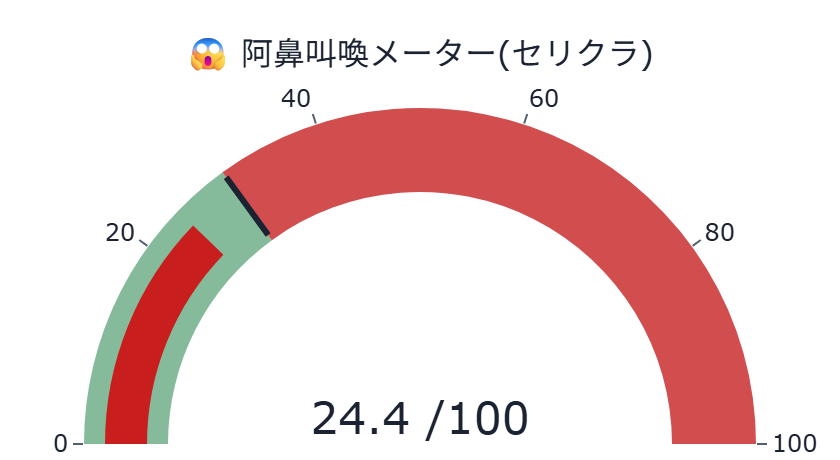
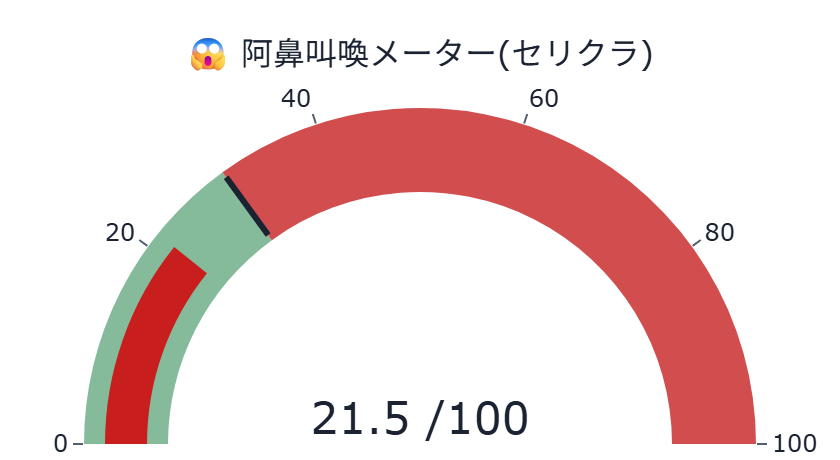
auto: refresh static dashboard (2026-08-25 01:40:27 JST)

Changed region(s): [[0.4024, 0.8522, 0.4952, 0.9435], [0.1857, 0.487, 0.2786, 0.6087]]

diff --git a/docs/index.html b/docs/index.html
@@ -86,7 +86,7 @@
         <span class="price">50,930円</span>
         <span class="chg" style="color:#8B94A3">—</span>
       </div>
-      <p class="caption">更新時刻: 2026-08-25T01:29:36（データは1分間隔で自動生成され、このページも
+      <p class="caption">更新時刻: 2026-08-25T01:39:35（データは1分間隔で自動生成され、このページも
       60秒毎に自動再読み込みされます）</p>
       
       <p id='visit-count-badge' class='caption' style='display:none'></p>
@@ -115,13 +115,13 @@
       <div class='info-box'>📌 前回の取引日(2026-08-24)からの状態変化: 「そう思う大量票」警戒→OK、「ネームド集中」OK→発火、「他銘柄混入率」警戒→発火、「暴落煽り語彙」警戒→OK、「話題枯れ」OK→発火</div>
       <div class="panel"><div class='signal-row'><div class='signal-name'>灼熱メーター(過熱)<div class='signal-desc'>掲示板全体の強気/弱気の偏りと投稿の勢いから算出した「過熱度」の合成指標。</div></div><div class='signal-note'>過熱スコア6.1 (閾値36)</div><div><span style='display:inline-block;border-radius:999px;padding:2px 10px;font-size:.82em;font-weight:600;color:#fff;background:#15803D;white-space:nowrap'>OK (現在値6.10 / 閾値&gt;36)</span></div></div>
 <div class='signal-row'><div class='signal-name'>そう思う大量票<div class='signal-desc'>Yahoo!掲示板の「そう思う」共感ボタンが1投稿に集中して大量に押されているか。</div></div><div class='signal-note'>そう思う最大23票 (95超=過熱)</div><div><span style='display:inline-block;border-radius:999px;padding:2px 10px;font-size:.82em;font-weight:600;color:#fff;background:#15803D;white-space:nowrap'>OK (現在値23 / 閾値&gt;=95)</span></div></div>
-<div class='signal-row'><div class='signal-name'>イナゴ語彙(euphoria)<div class='signal-desc'>「爆上げ」「握力」等、熱狂・便乗を示す語彙が投稿にどれだけ含まれるか。</div></div><div class='signal-note'>euphoria指数1.6/100投稿</div><div><span style='display:inline-block;border-radius:999px;padding:2px 10px;font-size:.82em;font-weight:600;color:#fff;background:#15803D;white-space:nowrap'>OK (現在値1.60 / 閾値&gt;=5.5/100投稿)</span></div></div>
-<div class='signal-row'><div class='signal-name'>ネームド集中<div class='signal-desc'>特定の常連投稿者(ハッシュ化ID)に投稿が偏っていないか(少数の声が目立ちすぎていないか)。</div></div><div class='signal-note'>上位5人シェア14%</div><div><span style='display:inline-block;border-radius:999px;padding:2px 10px;font-size:.82em;font-weight:600;color:#fff;background:#C81E1E;white-space:nowrap'>発火 (現在値0.14 / 閾値&gt;=0.1)</span></div></div>
+<div class='signal-row'><div class='signal-name'>イナゴ語彙(euphoria)<div class='signal-desc'>「爆上げ」「握力」等、熱狂・便乗を示す語彙が投稿にどれだけ含まれるか。</div></div><div class='signal-note'>euphoria指数1.9/100投稿</div><div><span style='display:inline-block;border-radius:999px;padding:2px 10px;font-size:.82em;font-weight:600;color:#fff;background:#15803D;white-space:nowrap'>OK (現在値1.90 / 閾値&gt;=5.5/100投稿)</span></div></div>
+<div class='signal-row'><div class='signal-name'>ネームド集中<div class='signal-desc'>特定の常連投稿者(ハッシュ化ID)に投稿が偏っていないか(少数の声が目立ちすぎていないか)。</div></div><div class='signal-note'>上位5人シェア13%</div><div><span style='display:inline-block;border-radius:999px;padding:2px 10px;font-size:.82em;font-weight:600;color:#fff;background:#C81E1E;white-space:nowrap'>発火 (現在値0.13 / 閾値&gt;=0.1)</span></div></div>
 <div class='signal-row'><div class='signal-name'>他銘柄混入率<div class='signal-desc'>本銘柄の掲示板で他の銘柄コードへの言及がどれだけ多いか(関心が他へ移りつつあるサイン)。</div></div><div class='signal-note'>他銘柄言及16% (関心離散のサイン)</div><div><span style='display:inline-block;border-radius:999px;padding:2px 10px;font-size:.82em;font-weight:600;color:#fff;background:#C81E1E;white-space:nowrap'>発火 (現在値0.16 / 閾値&gt;=0.11)</span></div></div>
-<div class='signal-row'><div class='signal-name'>暴落煽り語彙<div class='signal-desc'>「暴落」「終わった」等、悲観・煽りを示す語彙が投稿にどれだけ含まれるか。</div></div><div class='signal-note'>煽り指数2.6/100投稿</div><div><span style='display:inline-block;border-radius:999px;padding:2px 10px;font-size:.82em;font-weight:600;color:#fff;background:#15803D;white-space:nowrap'>OK (現在値2.60 / 閾値&gt;=5.0/100投稿)</span></div></div>
-<div class='signal-row'><div class='signal-name'>阿鼻叫喚(セリクラ)<div class='signal-desc'>株価が安値圏にある中で悲観語彙が急増しているか(セリングクライマックスの兆候)。</div></div><div class='signal-note'>阿鼻叫喚スコア24.4 安値圏外</div><div><span style='display:inline-block;border-radius:999px;padding:2px 10px;font-size:.82em;font-weight:600;color:#fff;background:#C2570B;white-space:nowrap'>警戒 (現在値24.40 / 閾値&gt;30)</span></div></div>
-<div class='signal-row'><div class='signal-name'>話題枯れ<div class='signal-desc'>過去の平均と比べて本日の投稿数が著しく少ないか(閑散・関心低下のサイン)。</div></div><div class='signal-note'>投稿数z=-1.32 (負=閑散)</div><div><span style='display:inline-block;border-radius:999px;padding:2px 10px;font-size:.82em;font-weight:600;color:#fff;background:#C81E1E;white-space:nowrap'>発火 (現在値-1.32 / 閾値z&lt;-1)</span></div></div>
-<div class='signal-row'><div class='signal-name'>投稿サージ<div class='signal-desc'>過去の平均と比べて本日の投稿数が著しく多いか(急な注目集中のサイン)。</div></div><div class='signal-note'>投稿数z=-1.32 (量→ボラ予測が文献の主結果)</div><div><span style='display:inline-block;border-radius:999px;padding:2px 10px;font-size:.82em;font-weight:600;color:#fff;background:#15803D;white-space:nowrap'>OK (現在値-1.32 / 閾値z&gt;2)</span></div></div></div>
+<div class='signal-row'><div class='signal-name'>暴落煽り語彙<div class='signal-desc'>「暴落」「終わった」等、悲観・煽りを示す語彙が投稿にどれだけ含まれるか。</div></div><div class='signal-note'>煽り指数2.5/100投稿</div><div><span style='display:inline-block;border-radius:999px;padding:2px 10px;font-size:.82em;font-weight:600;color:#fff;background:#15803D;white-space:nowrap'>OK (現在値2.50 / 閾値&gt;=5.0/100投稿)</span></div></div>
+<div class='signal-row'><div class='signal-name'>阿鼻叫喚(セリクラ)<div class='signal-desc'>株価が安値圏にある中で悲観語彙が急増しているか(セリングクライマックスの兆候)。</div></div><div class='signal-note'>阿鼻叫喚スコア21.5 安値圏外</div><div><span style='display:inline-block;border-radius:999px;padding:2px 10px;font-size:.82em;font-weight:600;color:#fff;background:#C2570B;white-space:nowrap'>警戒 (現在値21.50 / 閾値&gt;30)</span></div></div>
+<div class='signal-row'><div class='signal-name'>話題枯れ<div class='signal-desc'>過去の平均と比べて本日の投稿数が著しく少ないか(閑散・関心低下のサイン)。</div></div><div class='signal-note'>投稿数z=-1.31 (負=閑散)</div><div><span style='display:inline-block;border-radius:999px;padding:2px 10px;font-size:.82em;font-weight:600;color:#fff;background:#C81E1E;white-space:nowrap'>発火 (現在値-1.31 / 閾値z&lt;-1)</span></div></div>
+<div class='signal-row'><div class='signal-name'>投稿サージ<div class='signal-desc'>過去の平均と比べて本日の投稿数が著しく多いか(急な注目集中のサイン)。</div></div><div class='signal-note'>投稿数z=-1.31 (量→ボラ予測が文献の主結果)</div><div><span style='display:inline-block;border-radius:999px;padding:2px 10px;font-size:.82em;font-weight:600;color:#fff;background:#15803D;white-space:nowrap'>OK (現在値-1.31 / 閾値z&gt;2)</span></div></div></div>
       <p class="caption">※研究・エンタメ用途・未検証。売買シグナルではありません。
       掲示板は方向よりボラを予測する傾向が文献で報告されています(Antweiler &amp; Frank, 2004)。</p>
 
@@ -150,24 +150,24 @@
       
 
       <h2>🤖 AI考察</h2>
-      <div class='metric-row'><div class='metric-card'><div class='metric-label'>株価</div><div class='metric-value'>50,930円</div><div class='metric-delta'>+0円</div></div><div class='metric-card'><div class='metric-label'>強気比率</div><div class='metric-value'>34.1%</div><div class='metric-delta'>+2.5pt</div></div><div class='metric-card'><div class='metric-label'>弱気比率</div><div class='metric-value'>55.9%</div><div class='metric-delta'>-2.2pt</div></div></div><p class='caption'>前回集計(2026-08-25T01:18:24)との比較</p>
-      <div class='ai-box'>本レポートは、掲示板の集計センチメントデータに基づく分析であり、投資助言ではありません。<br>
+      <div class='metric-row'><div class='metric-card'><div class='metric-label'>株価</div><div class='metric-value'>50,930円</div><div class='metric-delta'>+0円</div></div><div class='metric-card'><div class='metric-label'>強気比率</div><div class='metric-value'>35.1%</div><div class='metric-delta'>+1.0pt</div></div><div class='metric-card'><div class='metric-label'>弱気比率</div><div class='metric-value'>55.3%</div><div class='metric-delta'>-0.6pt</div></div></div><p class='caption'>前回集計(2026-08-25T01:29:36)との比較</p>
+      <div class='ai-box'>本件は掲示板の集計センチメントデータに基づく分析であり、投資助言ではありません。<br>
 <br>
 キオクシアホールディングス（285A）について、前営業日の終値を基準とした現在の状況を整理します。<br>
 <br>
-まず価格動向ですが、直近の取引日（2026年8月24日）の終値は50,930円となっています。取引時間外の動きを見ると、PTSでは49,830円（-2.16%）、米国ADRでは49,997円（-1.83%）となっており、前日の終値を下回る水準で推移しています。<br>
+まず価格動向と市場の反応を見ると、前営業日の終値は50,930.0円となっています。取引時間外の動きを確認すると、PTSでは49,830.0円（-2.16%）、米国ADRでは50,378.0円（-1.08%）となっており、寄り付きに向けた参考情報として、夜間および海外市場では軟調な推移を見せています。<br>
 <br>
-掲示板のセンチメントについては、強気比率が34.1%、弱気比率が55.9%となっており、弱気の意見が優勢な状況です。前回集計（01:18時点）と比較すると、短時間のうちに強気比率が2.5ポイント上昇し、弱気比率は2.2ポイント低下しています。また、投稿数も32件増加しており、わずかながらセンチメントの推移が見て取れます。<br>
+掲示板のセンチメントについては、強気比率が35.1％に対し、弱気比率が55.3％と、弱気の意見が優勢な状況にあります。前回の集計（約8分前）と比較すると、価格は変わらず、強気比率が+1.0pt、弱気比率が-0.6ptと微増傾向にあり、投稿数も14件増加していることから、短時間でのセンチメントの推移を捉えることができます。<br>
 <br>
-過熱度スコアは6.1と低水準であり、総悲観度スコアは24.4となっています。シグナル発火状況を確認すると、「ネームド集中」および「他銘柄混入率」が発火しており、特定のユーザーへの意見の偏りや、関心が他の銘柄へ分散している傾向が統計的に示されています。また、「話題枯れ」も発火しており、投稿数のzスコアから一定の閑散状態にあることが伺えます。前回取引日からの変化としては、ネームド集中と他銘柄混入率が「警戒」から「発火」へと進展し、話題枯れも「OK」から「発火」へと変化しています。<br>
+統計的なシグナル状況を確認すると、いくつかの指標で特筆すべき変化が見られます。「ネームド集中」および「他銘柄混入率」が発火しており、特定のユーザーへの意見集中や、関心が他の銘柄へ分散している可能性が示唆されています。また、「話題枯れ」も発火しており、投稿の勢いが統計的に閑散としている状態です。一方で、「阿鼻叫喚（セリクラ）」スコアは21.5と警戒水準にあり、安値圏における反応が含まれていることが伺えます。<br>
 <br>
-ボラティリティについては、現在のレジームが「calibrating（較正中）」となっており、BVPは0.174です。これは現在、ボラティリティの指標を算出・調整している段階であることを示しています。<br>
+ボラティリティについては、現在のレジームが「calibrating（較正中）」となっており、BVP=0.174という数値に基づき、現在進行形の変動幅を確定させるための調整段階にあることを示しています。過熱度スコアは6.1と低く、統計的な過熱感は見られません。<br>
 <br>
-総じて、掲示板上では弱気の意見が目立つ一方で、特定のユーザーへの集中や関心の分散といった統計的な偏りが確認される状況にあります。</div><p class='caption'>生成時刻: 2026-08-25T01:29:36</p>
+総じて、現在の掲示板上では弱気の意見が目立ちつつも、話題の拡散や特定のユーザーへの集中など、コミュニティ内の関心の質に変化が生じている状況です。</div><p class='caption'>生成時刻: 2026-08-25T01:39:35</p>
 
       <hr style="border:none;border-top:1px solid var(--border);margin:2rem 0 1rem">
       <p class="caption">⚠ 本情報は掲示板投稿を統計的に集計したものであり、投資助言ではありません。個別の投稿内容は含まれていません。研究・エンタメ用途です。</p>
-      <footer>生成: generate_static_dashboard.py（2026-08-25T01:39:12） /
+      <footer>生成: generate_static_dashboard.py（2026-08-25T01:40:15） /
       画像バックエンド: plotly+kaleido</footer>
     </div>
     <script>(function(){var url="https://script.google.com/macros/s/AKfycbwgSSGQ2n56ohmIYKlNDA1Xe3D8hd3GJbD0U90L4DGtXdb8pqrPokNMHJWjvN1__7bE/exec";var KEY='bbs_visit_counted';var already=sessionStorage.getItem(KEY);var action=already?'read':'hit';var ctrl=(typeof AbortController!=='undefined')?new AbortController():null;var timer=ctrl?setTimeout(function(){ctrl.abort();},5000):null;fetch(url+'?action='+action,{signal:ctrl?ctrl.signal:undefined}).then(function(r){if(timer)clearTimeout(timer);return r.json();}).then(function(data){if(!already)sessionStorage.setItem(KEY,'1');if(data&&typeof data.count==='number'){var el=document.getElementById('visit-count-badge');if(el){el.textContent='\u{1F440} \u7d2f\u8a08\u95b2\u89a7\u6570: '+data.count.toLocaleString();el.style.display='';}}}).catch(function(e){if(timer)clearTimeout(timer);console.warn('visit counter fetch failed (fail-soft):',e);});})();</script></body></html>
